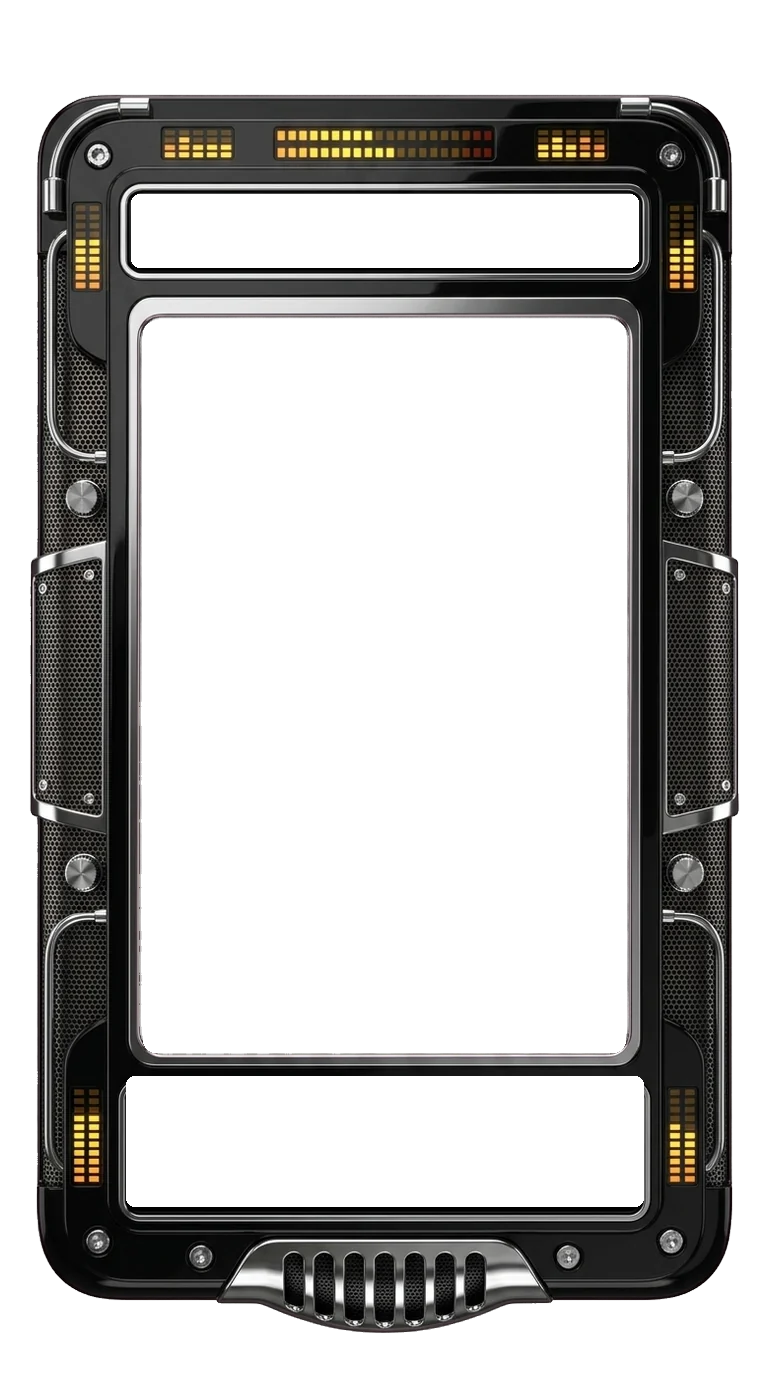
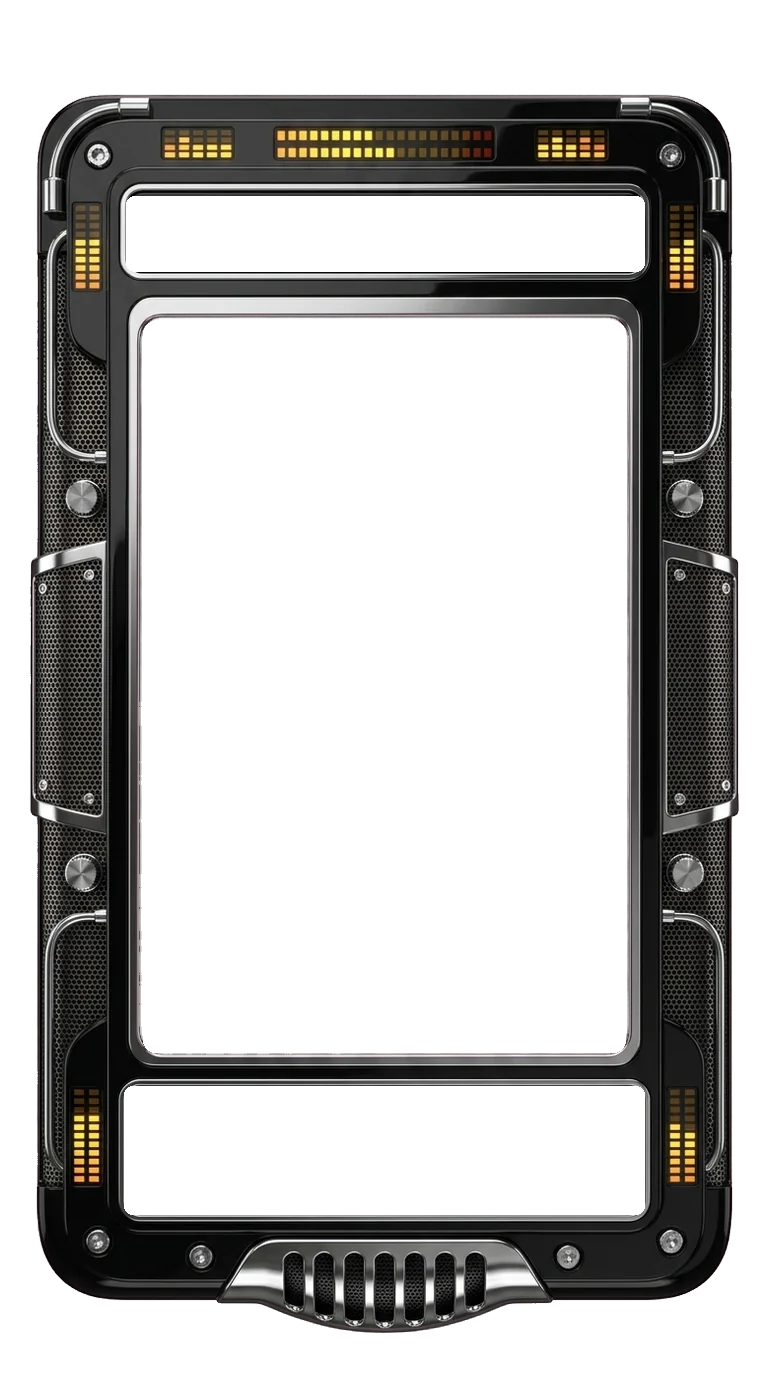
CatSmash: kolečka sedí i v Klasiku, Ekvalizéru a Strojovně, Graffiti ve sprejových barvách, Menu i na hlavní obrazovce telefonu.
Klasický automat je taky vrstva nad kolečky, výřezy Ekvalizéru a Strojovny kopírují jejich rám.

diff --git a/src/main/webapp/js/catsmash/hra.js b/src/main/webapp/js/catsmash/hra.js
@@ -551,12 +551,13 @@ t    }
       var c = SKINS[i].ui || SKINS[i].rim;
       el.style.setProperty('--accent', c);
       el.style.setProperty('--accent-soft', 'color-mix(in srgb, ' + c + ' 18%, transparent)');
-      el.style.setProperty('--accent-grad', 'linear-gradient(color-mix(in srgb, ' + c + ' 78%, #fff), ' + c + ' 55%, color-mix(in srgb, ' + c + ' 80%, #000))');
+      el.style.setProperty('--accent-grad', SKINS[i].grad || 'linear-gradient(color-mix(in srgb, ' + c + ' 78%, #fff), ' + c + ' 55%, color-mix(in srgb, ' + c + ' 80%, #000))');
     }
     function setSkin() {
-      var id = curPad(), sk = atmoOn && STROJE && id && STROJE[id];
+      // klasický automat je taky vrstva (stroje/klasik.webp), ať kolečka leží pod ním; vypnutá atmosféra = klasický
+      var id = (atmoOn && curPad()) || 'klasik', sk = STROJE && STROJE[id];
       frameEl.classList.toggle('themed', !!sk);
-      frameEl.style.setProperty('--menu-tint', sk && SKINS[skin] && SKINS[skin].rim ? SKINS[skin].rim : '#e6b730');   // kov tlačítka MENU podle automatu
+      frameEl.style.setProperty('--menu-tint', atmoOn && SKINS[skin] ? SKINS[skin].ui || SKINS[skin].rim : '#e6b730');   // kov tlačítka MENU podle automatu
       themeOn(root, atmoOn ? skin : 0);                    // celá hra v barvách vybrané pálky (vypnutá atmosféra = zlatá)
       frameEl.style.setProperty('--menu-y', (sk && D.MENU_Y[id]) || 162);
       skinEl.hidden = !sk;
@@ -1484,7 +1485,7 @@ t    }
       // obrázkové pálky (img = klíč v kevin/pong/palky.json z tools/catsmash-sprites.py); pad = barvy pro záložní kreslení
       { b: 'first', img: 'vetev', pad: ['#c79a62', '#5a3a1c'], rim: '#8fd16a', glow: 'rgba(120, 200, 90, .9)', trail: '#9ccf6a' },
       { b: 'loyal', img: 'plys', pad: ['#ffffff', '#cfcfd6'], rim: '#ffc2cf', glow: 'rgba(255, 190, 205, .9)', trail: '#ffd6df' },
-      { b: 'overheat', img: 'graffiti', pad: ['#3a3a40', '#111114'], rim: '#ff5fd2', glow: 'rgba(120, 220, 255, .9)', trail: '#ffcf3a' },
+      { b: 'overheat', img: 'graffiti', ui: '#2be8e0', grad: 'linear-gradient(95deg, #22e6e0, #b6ff2e 52%, #ffe600)', pad: ['#3a3a40', '#111114'], rim: '#ff5fd2', glow: 'rgba(120, 220, 255, .9)', trail: '#ffcf3a' },
       { b: 'fast', img: 'jadeit', pad: ['#8fd6a8', '#2f7a4c'], rim: '#7fd6a0', glow: 'rgba(110, 210, 150, .9)', trail: '#6fcf97' },
       { b: 'close', img: 'mince', pad: ['#ffd76a', '#8a6400'], rim: '#ffd23f', glow: 'rgba(255, 200, 60, .95)', trail: '#d9a441' },
       { b: 'streak', img: 'led', ui: '#a9e4ff', pad: ['#eef8ff', '#8fc6e8'], rim: '#cdeeff', glow: 'rgba(170, 225, 255, .95)', trail: '#bfe6ff' },

diff --git a/src/main/webapp/css/catsmash.css b/src/main/webapp/css/catsmash.css
@@ -1005,13 +1005,11 @@ body.light .kpong-field > .kpong-panel { background: radial-gradient(120% 75% at
   border: 1px solid color-mix(in srgb, var(--accent) 55%, transparent); border-radius: 14px; box-shadow: none; font-size: 13px; transform-origin: 50% 0;
 }
 .kp-comic.say.in-glass::after { display: none; }
-/* MENU: kulaté tlačítko vlevo v pruhu nad sklem, daleko od palce (při hře ho nejde omylem stisknout);
-   u otevřeného menu hry není potřeba */
+/* MENU: kulaté tlačítko vlevo v pruhu nad sklem, daleko od palce (při hře ho nejde omylem stisknout) */
 .kpong.kp-phone .kpong-set {
   left: calc(146px * var(--u)); top: calc(var(--my) * var(--u) * 1px); width: 40px; height: 40px; z-index: 5; animation: none;
 }
 .kpong.kp-phone .kpong-set span { position: absolute; width: 1px; height: 1px; overflow: hidden; clip-path: inset(50%); }
-.kpong.kp-phone:has(.kpong-panel:not([hidden])) .kpong-set { display: none; }
 /* při hře nahoře nic: křížek je v menu hry, vidět je jen u otevřeného panelu (nad ním), prohlídka je jen v menu hry */
 .kpong.kp-phone .kpong-top { display: none; justify-content: flex-end; z-index: 6; }
 .kpong.kp-phone:has(.kpong-panel:not([hidden])) .kpong-top { display: flex; }

diff --git a/src/main/webapp/js/catsmash/data.js b/src/main/webapp/js/catsmash/data.js
@@ -13,11 +13,12 @@
   // průhledná okénka (horní, dolní) v rámech automatů podle pálky – změřeno z kevin/pong/stroje/*.webp (x, y, šířka, výška)
   var MECH_WIN = {
     cip: [[127, 190, 515, 89], [122, 1066, 525, 144]],
-    ekvalizer: [[123, 186, 523, 89], [118, 1068, 533, 146]],
+    ekvalizer: [[121, 191, 528, 85], [119, 1081, 530, 138]],
     ganja: [[125, 191, 518, 84], [118, 1096, 532, 134]],
     graffiti: [[123, 191, 520, 90], [121, 1065, 527, 145]],
     jadeit: [[126, 190, 518, 88], [121, 1068, 525, 143]],
-    kola: [[124, 191, 520, 87], [118, 1068, 533, 146]],
+    klasik: [[123, 186, 523, 89], [118, 1068, 533, 146]],
+    kola: [[124, 191, 520, 87], [120, 1075, 534, 146]],
     lava: [[123, 186, 521, 93], [122, 1094, 523, 142]],
     led: [[127, 190, 513, 89], [122, 1065, 524, 144]],
     mince: [[125, 190, 518, 90], [122, 1067, 524, 144]],

diff --git a/tools/catsmash-stroje.py b/tools/catsmash-stroje.py
@@ -53,6 +53,9 @@ def seeds_in(r):
 # automaty, které mají růžovou ve výzdobě: okraje se nečistí
 KEEP_PINK = {'neon', 'graffiti'}
 WIN_MARGIN = 5
+# automaty, které okénko nakreslily jako černé sklo nebo panel: otvor přesně podle jejich rámu (x, y, šířka, výška v originále;
+# klíč 0 = horní okénko, 1 = dolní)
+FRAME_HOLES = {'ekvalizer': {0: (122, 196, 525, 75), 1: (120, 1090, 527, 129)}, 'kola': {1: (122, 1090, 530, 138)}}
 
 
 def clean_fringe(out):
@@ -113,23 +116,40 @@ def cut(path, pad=''):
     ImageDraw.Draw(hole).rounded_rectangle((GLASS[0] + 5, GLASS[1] + 5, GLASS[0] + GLASS[2] - 5, GLASS[1] + GLASS[3] - 5), radius=12, fill=0)
     # okénko, které v obrázku není (černé sklo, deska), se vyřízne natvrdo; nakreslené zůstává i s tím, co vede přes něj
     own = [m.sum() > 0.5 * r[2] * r[3] for m, r in ((top, WIN_TOP), (bot, WIN_BOT))]
-    for r, mine in zip((WIN_TOP, WIN_BOT), own):
+    def moved(r):
+        return None if r is None else (round(gx + (r[0] - g[0]) * sx), round(gy + (r[1] - g[1]) * sy), round(r[2] * sx), round(r[3] * sy))
+    forced = {}
+    for n, (r, mine) in enumerate(zip((WIN_TOP, WIN_BOT), own)):
         if not mine:
-            x, y, w, h = r
-            ImageDraw.Draw(hole).rounded_rectangle((x + 3, y + 3, x + w - 3, y + h - 3), radius=8, fill=0)
+            art = FRAME_HOLES.get(pad, {}).get(n)
+            x, y, w, h = moved(art) if art else (r[0] + 3, r[1] + 3, r[2] - 6, r[3] - 6)
+            forced[n] = (x, y, w, h)
+            ImageDraw.Draw(hole).rounded_rectangle((x, y, x + w, y + h), radius=8, fill=0)
     a = out.getchannel('A')
     out.putalpha(Image.fromarray(np.minimum(np.asarray(a), np.asarray(hole))))
     if pad not in KEEP_PINK:
         out = clean_fringe(out)
-    def moved(r):
-        return None if r is None else (round(gx + (r[0] - g[0]) * sx), round(gy + (r[1] - g[1]) * sy), round(r[2] * sx), round(r[3] * sy))
     tb, bb = bbox(top), bbox(bot)
     has_top = tb is not None and tb[3] > 30
     win = []
-    for box, mine, rect in ((moved(tb), own[0], WIN_TOP), (moved(bb), own[1], WIN_BOT)):
-        x, y, w, h = box if mine else rect
+    for n, box in enumerate((moved(tb), moved(bb))):
+        x, y, w, h = forced[n] if n in forced else box
         win.append([x - WIN_MARGIN, y - WIN_MARGIN, w + 2 * WIN_MARGIN, h + 2 * WIN_MARGIN])
     return out, has_top, win, own, (round(sx, 3), round(sy, 3))
+
+
+def klasik():
+    # klasický automat: rám kevin/pong/ram.webp s otvory, ať kolečka leží pod ním jako u ostatních
+    im = Image.open(os.path.join(OUT, '..', 'ram.webp')).convert('RGBA')
+    hole = Image.new('L', (FW, FH), 255)
+    d = ImageDraw.Draw(hole)
+    d.rounded_rectangle((GLASS[0] + 5, GLASS[1] + 5, GLASS[0] + GLASS[2] - 5, GLASS[1] + GLASS[3] - 5), radius=12, fill=0)
+    win = []
+    for x, y, w, h in (WIN_TOP, WIN_BOT):
+        d.rounded_rectangle((x + 2, y + 2, x + w - 2, y + h - 2), radius=9, fill=0)
+        win.append([x - WIN_MARGIN, y - WIN_MARGIN, w + 2 * WIN_MARGIN, h + 2 * WIN_MARGIN])
+    im.putalpha(Image.fromarray(np.minimum(np.asarray(im.getchannel('A')), np.asarray(hole))))
+    return im, True, win, [True, True], (1, 1)
 
 
 def main():
@@ -139,7 +159,7 @@ def main():
     meta = json.load(open(meta_path, encoding='utf-8')) if os.path.exists(meta_path) else {}
     for arg in sys.argv[2:]:
         pad, name = arg.split('=', 1)
-        img, has_top, win, own, sc = cut(os.path.join(src, name), pad)
+        img, has_top, win, own, sc = klasik() if pad == 'klasik' else cut(os.path.join(src, name), pad)
         img.save(os.path.join(OUT, pad + '.webp'), 'WEBP', quality=86, method=6)
         meta[pad] = {'top': has_top, 'win': win}
         print(pad, 'měřítko', sc, 'okénka', win, 'z obrázku', own, os.path.getsize(os.path.join(OUT, pad + '.webp')) // 1024, 'kB')
